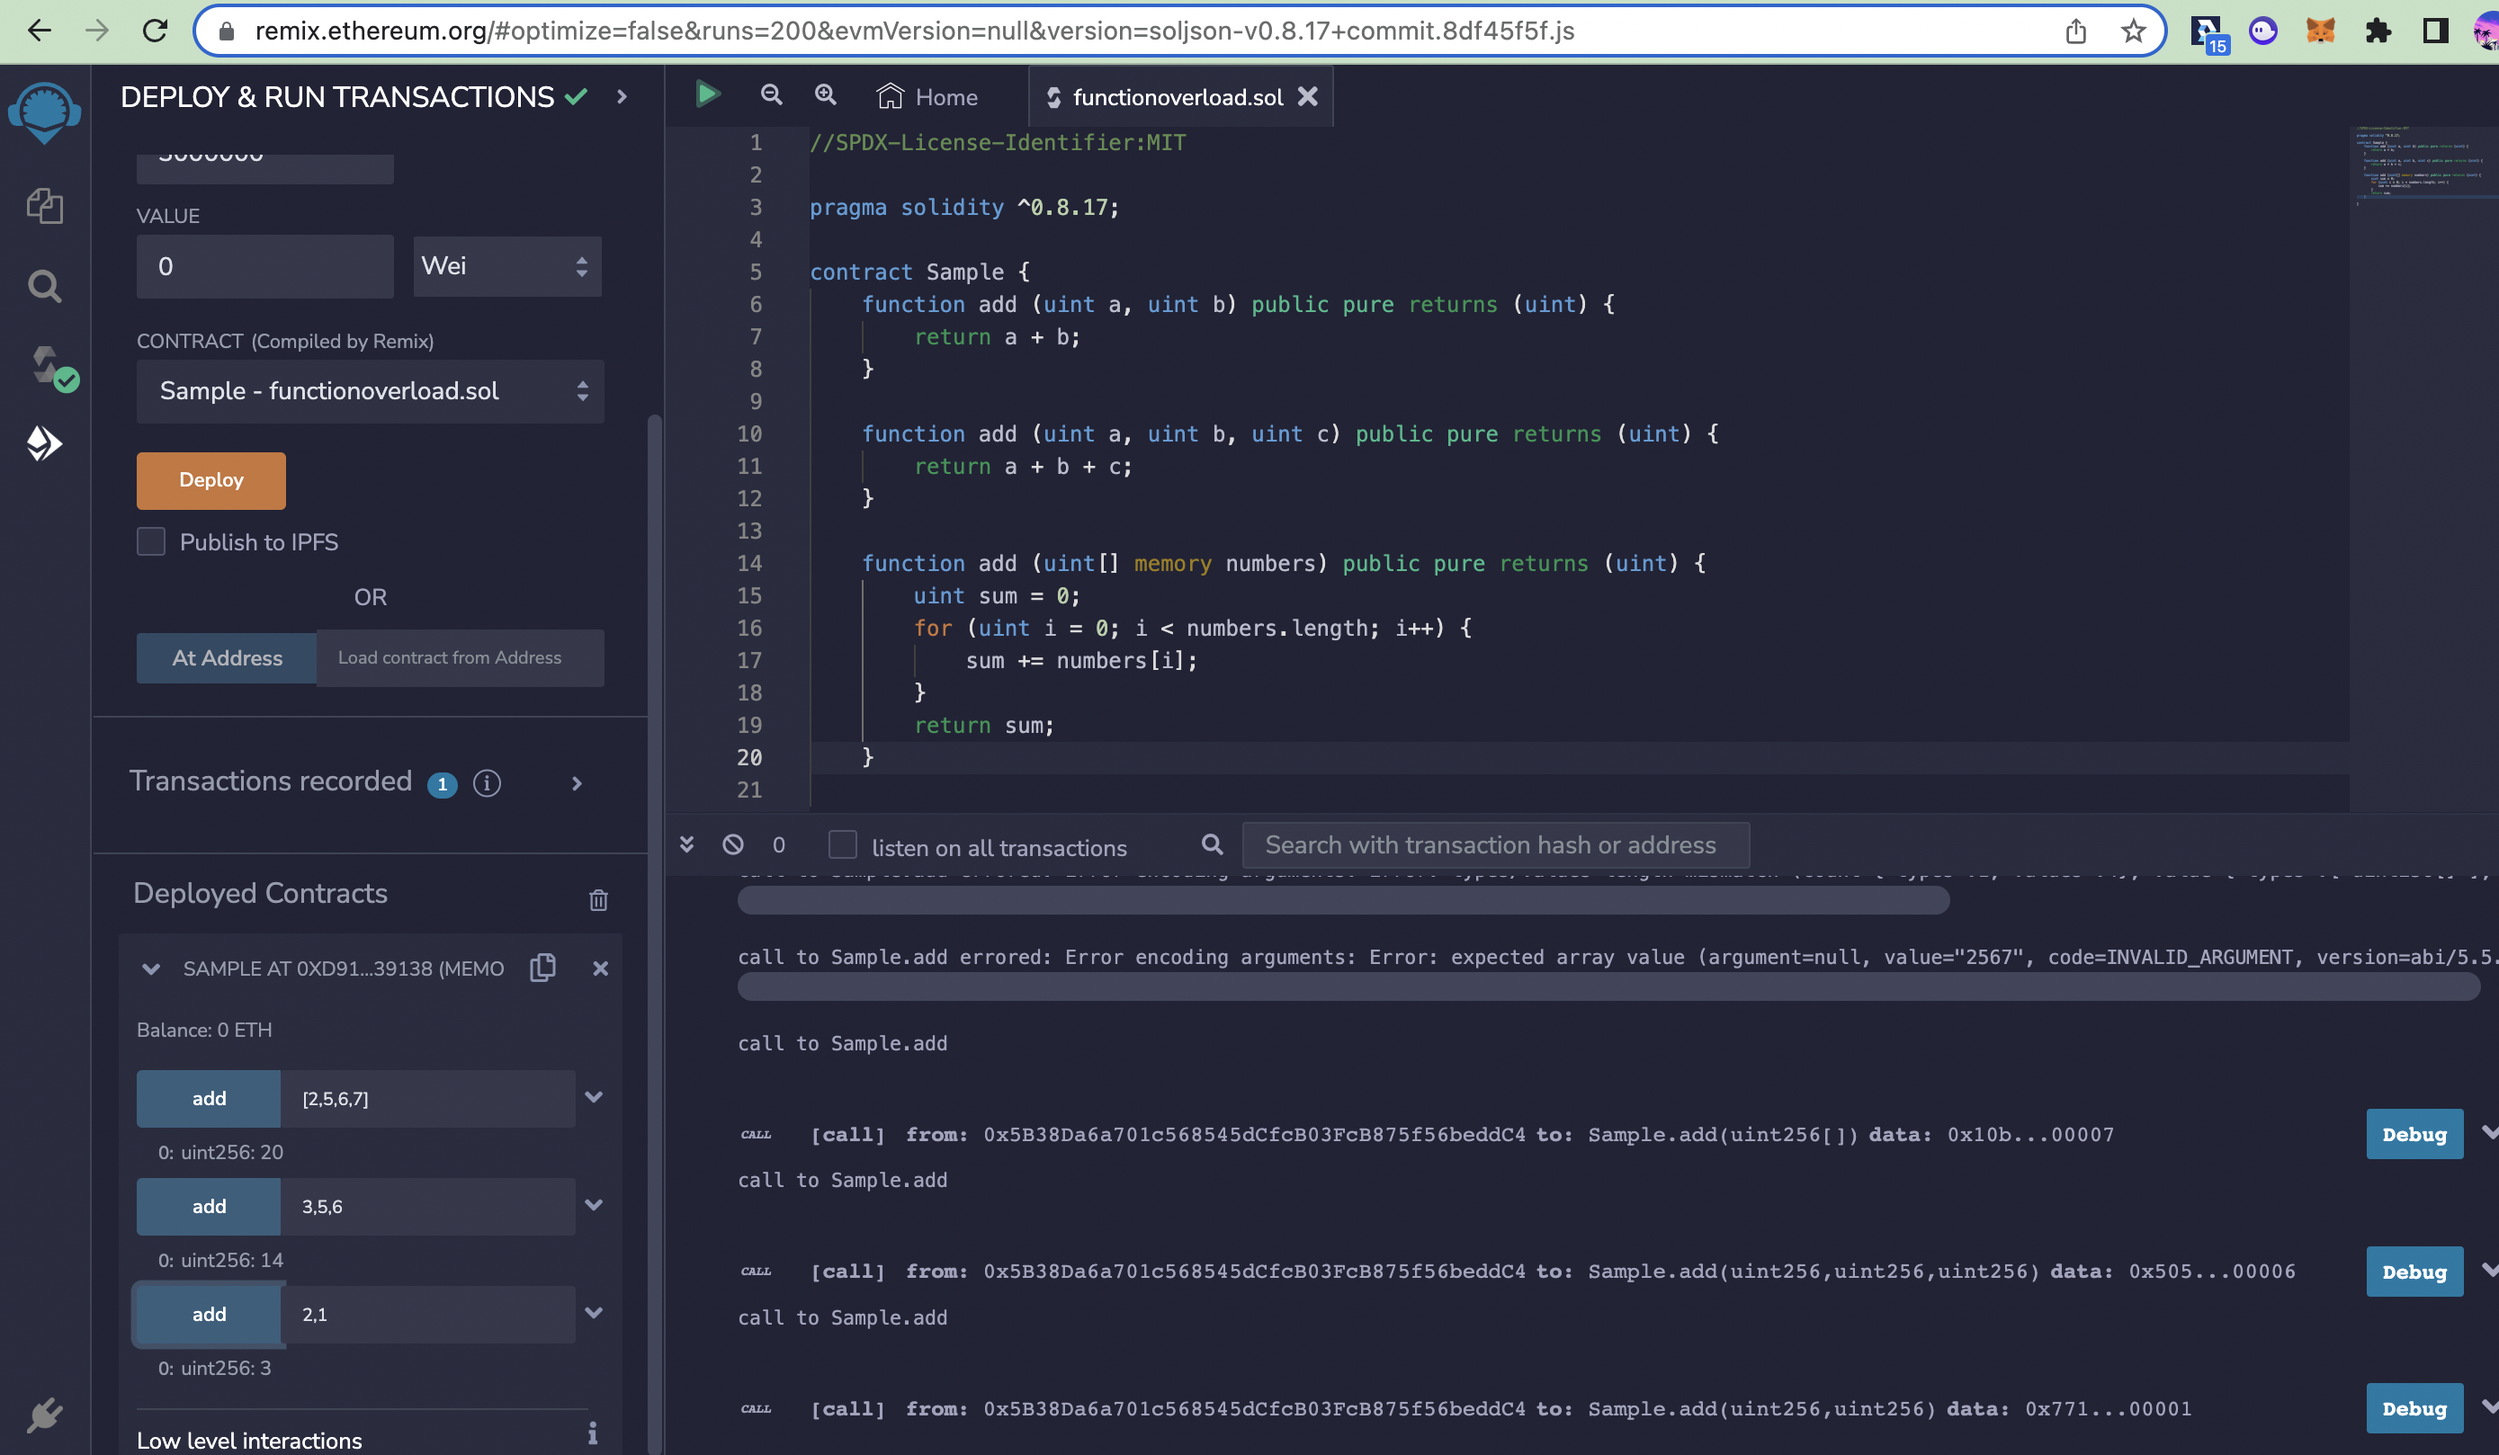
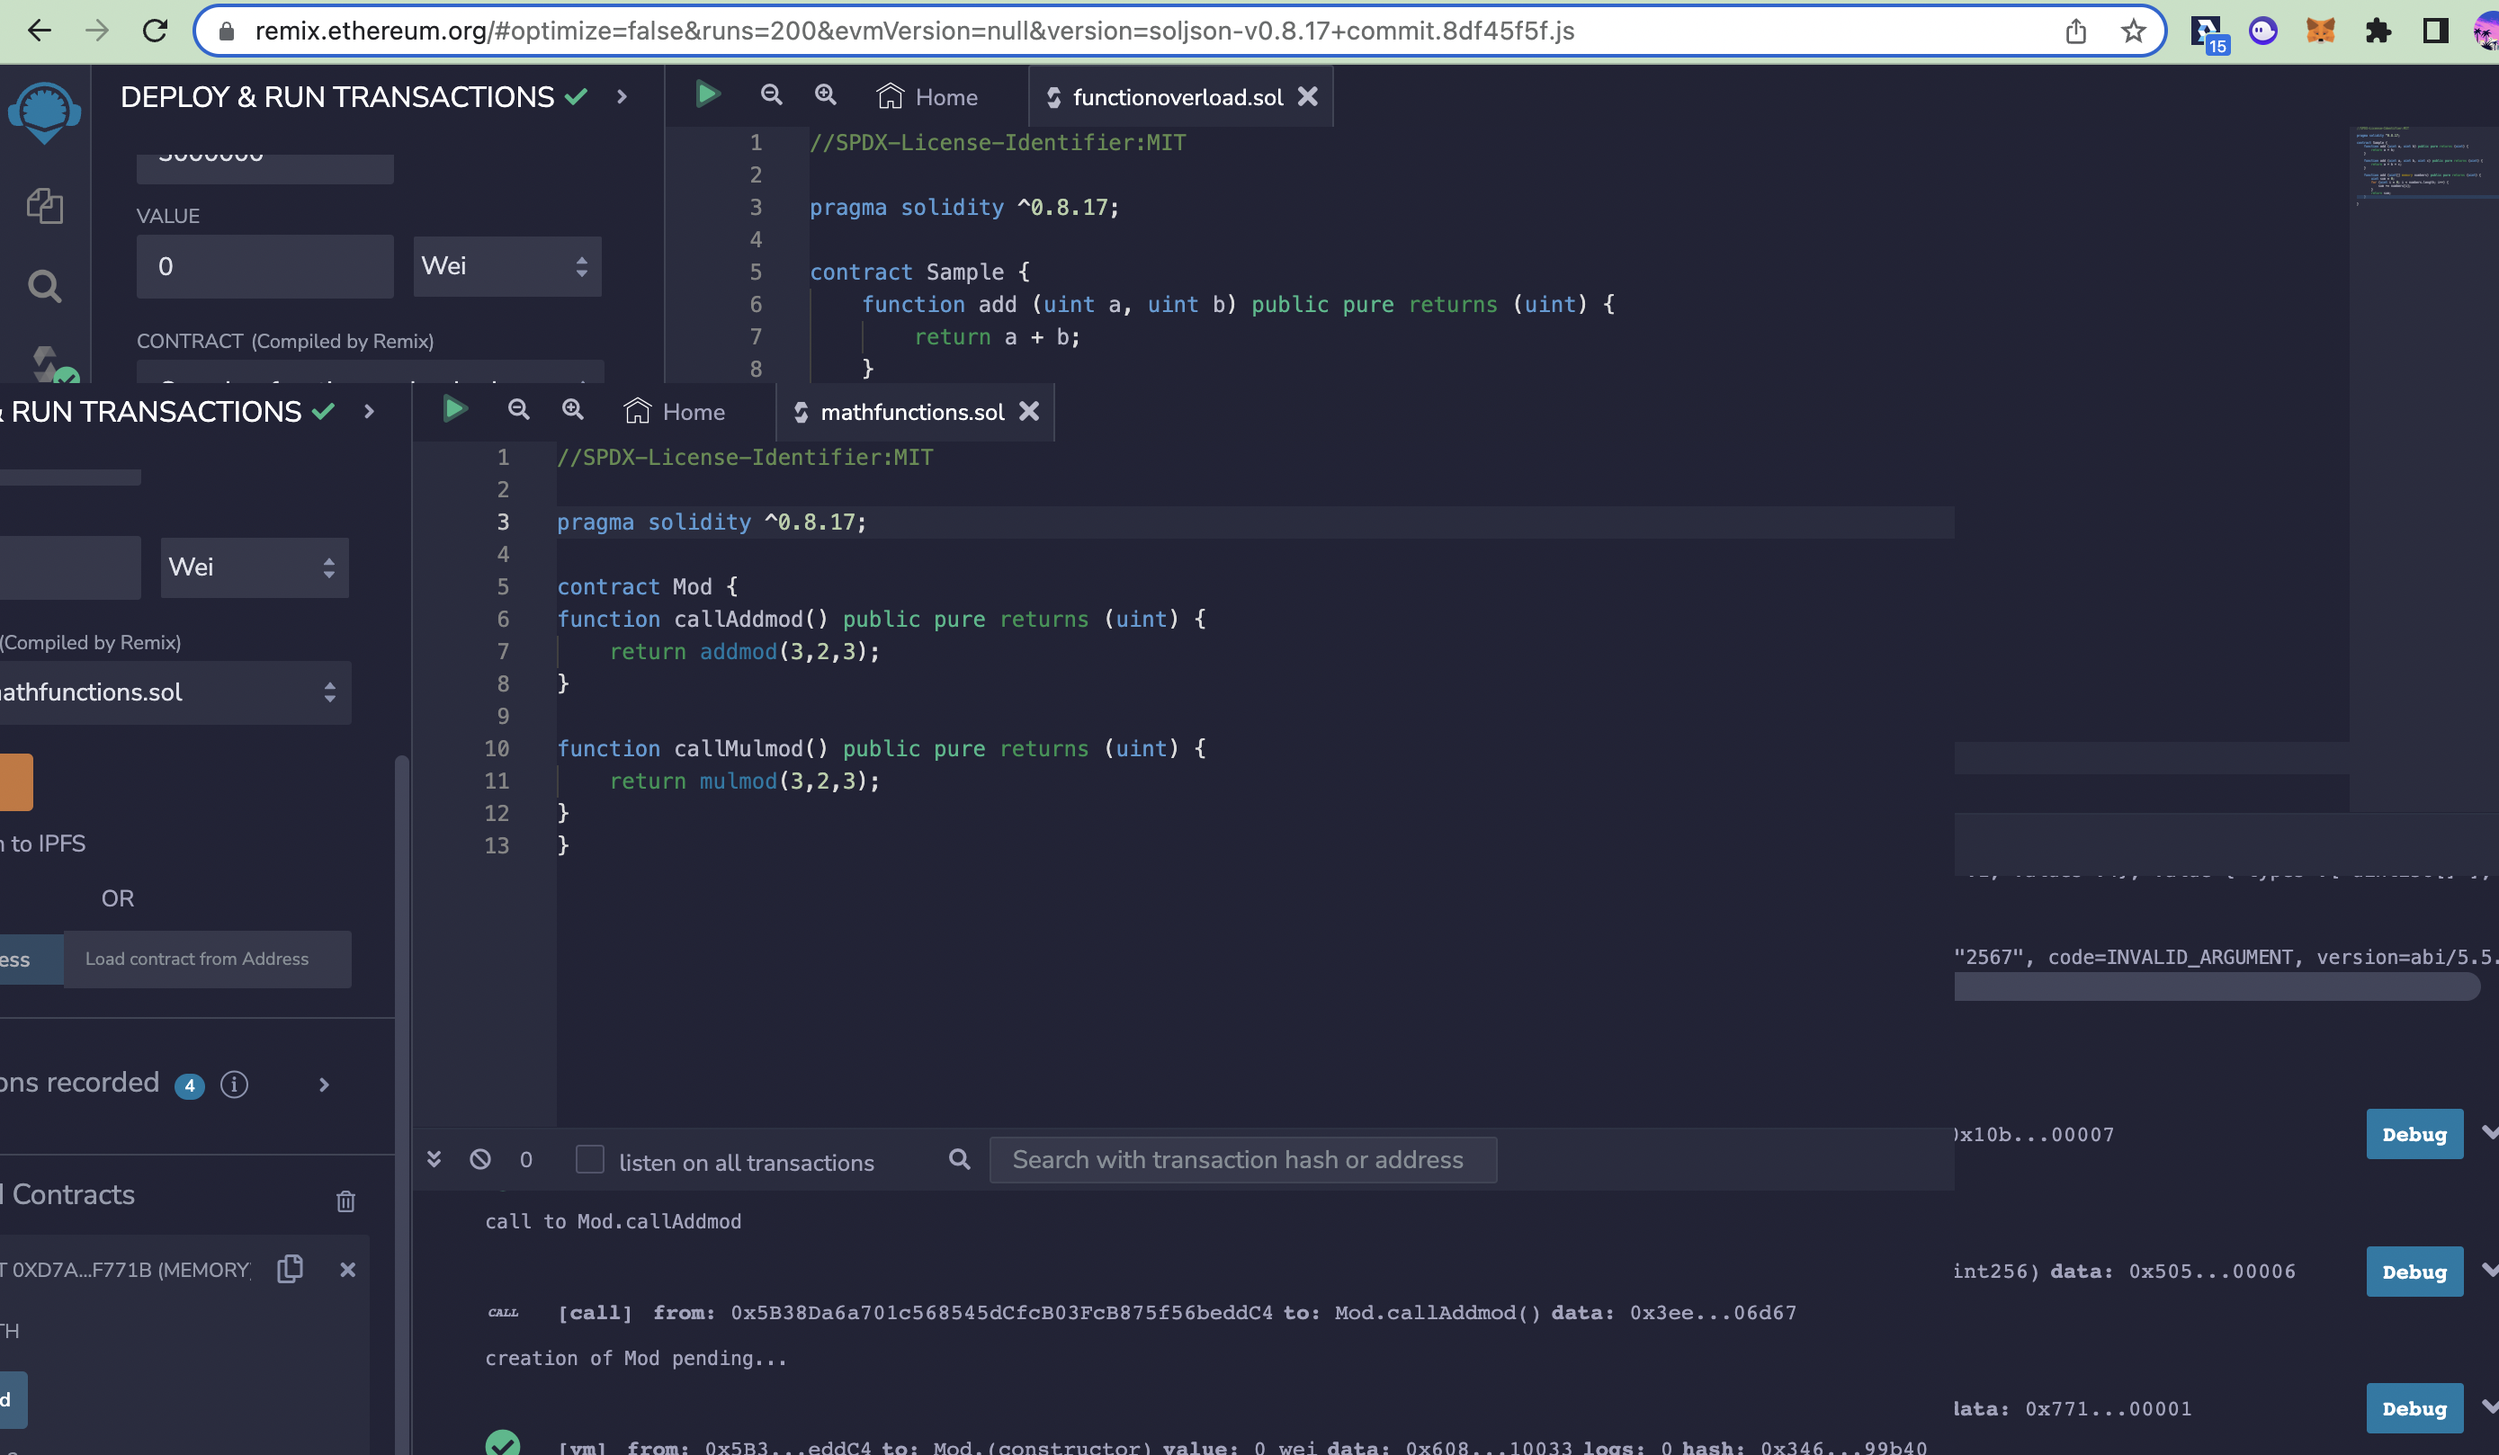
to demo on how built-in math functions work

diff --git a/Built-in Math Functions/README.md b/Built-in Math Functions/README.md
@@ -1,0 +1,10 @@
+# Built-in Math functions
+
+Solidity provides inbuilt mathematical functions as well. Following are heavily used methods −
+
+* addmod(uint x, uint y, uint k) returns (uint) − computes (x + y) % k where the addition is performed with arbitrary precision and does not wrap around at 2256.
+
+* mulmod(uint x, uint y, uint k) returns (uint) − computes (x * y) % k where the addition is performed with arbitrary precision and does not wrap around at 2256.
+
+*Remix illustration below* *
+![image info](image.png)
